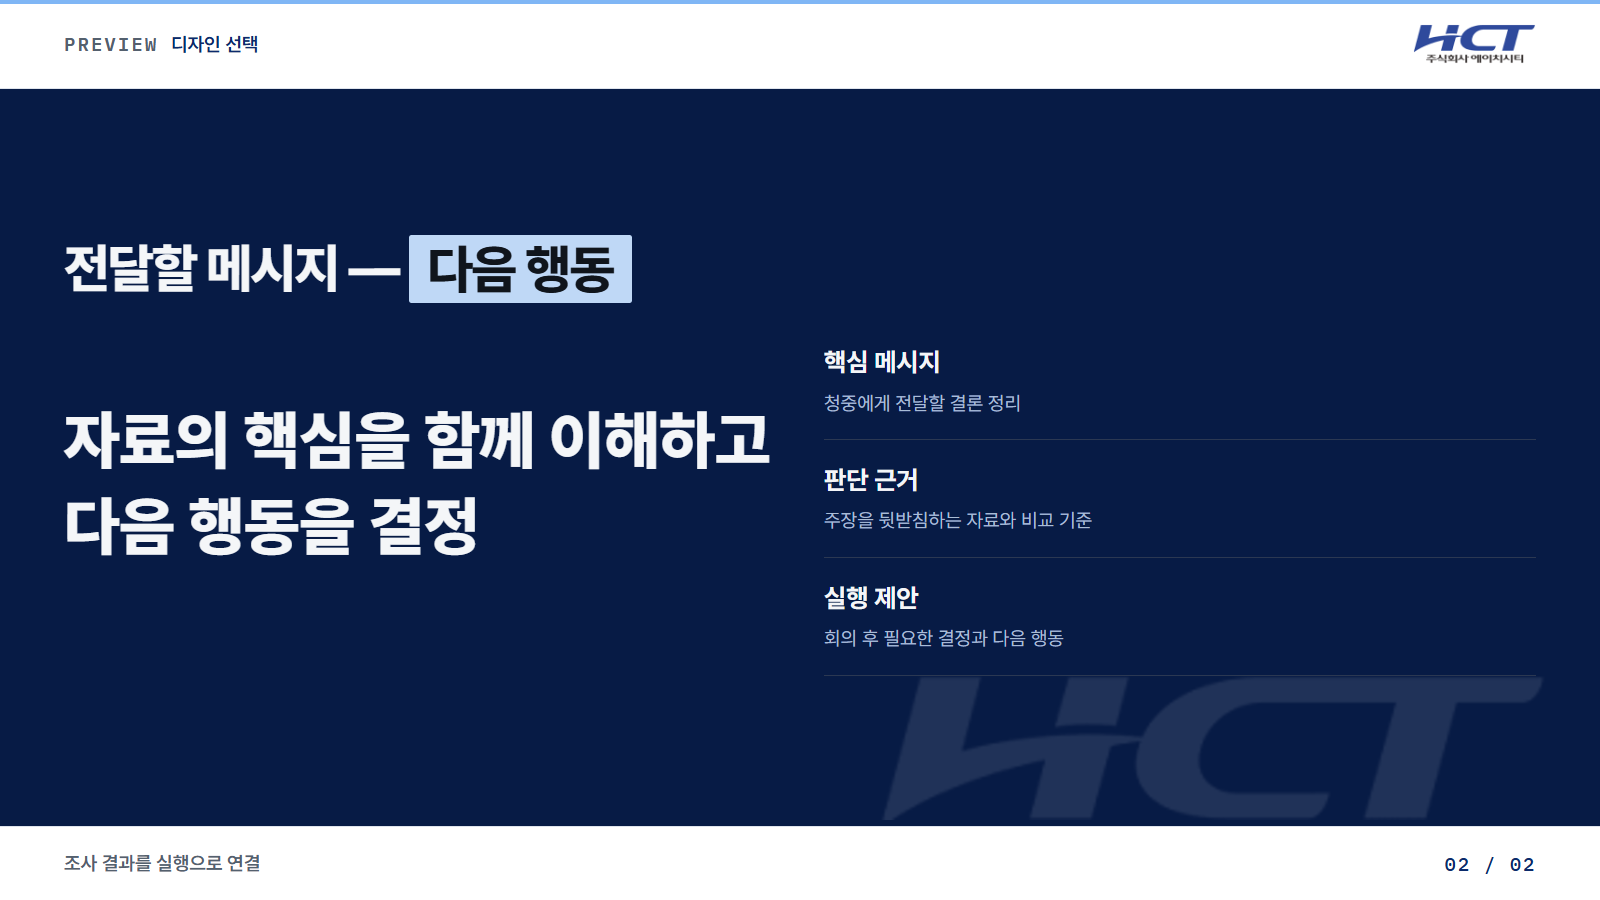
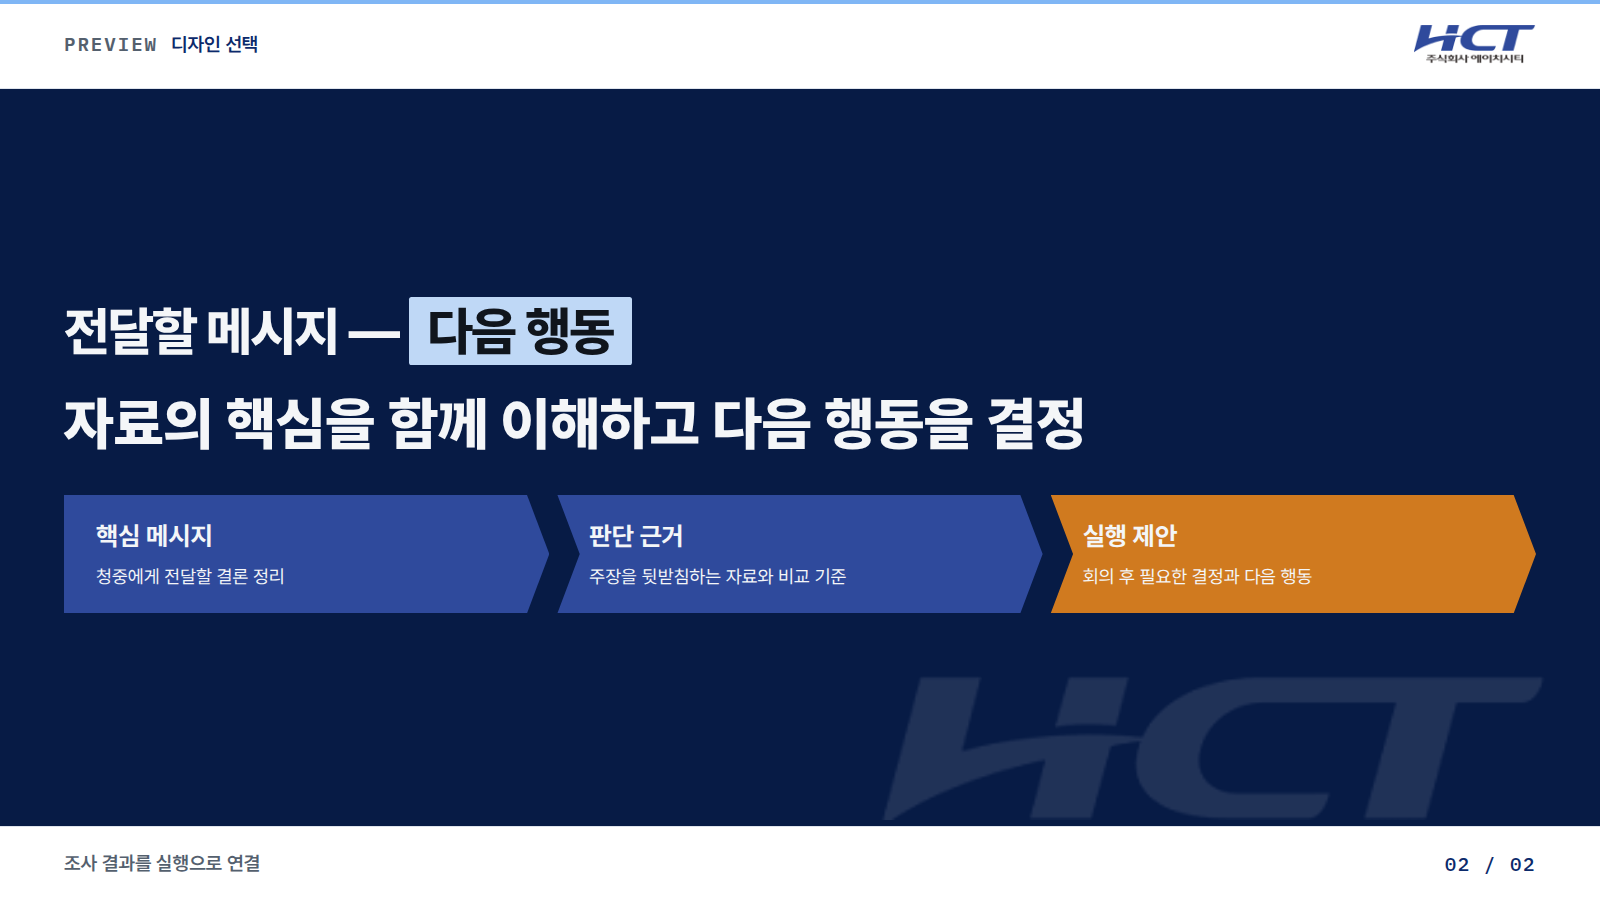
디자인 3안 시안도 디자인 언어로 그린다
- style_previews.py: 세 방향을 디자인 언어 문법 · --bl-pt-* 토큰으로 — 01 보고형 3구역 편집 + 결론 띠,
  02 설명형 노선, 03 메시지형 짙은 띠 + 쉐브론. blue-pattern.css 를 실제 덱처럼 부른다
- 이름 · 번호 · 입력 형식 · 선택 기록은 그대로. 세 시안 모두 check_live 실패 0(글자 하한 · 맞춤 CSS 포함)
- docs/previews PNG 와 STYLE_PREVIEWS.md · visual-style-selection.md 설명 갱신

Claude-Session: https://claude.ai/code/session_018hh15vmx9WVfDNter44QMS

diff --git a/.claude/skills/blue-report/scripts/style_previews.py b/.claude/skills/blue-report/scripts/style_previews.py
@@ -19,9 +19,9 @@ ROOT = Path(__file__).resolve().parent.parent
 ASSETS = ROOT / "assets"
 sys.path.insert(0, str(ROOT / "scripts"))
 STYLES = (
-    ("report", "01", "정돈된 보고형", "회의 보고 · 비교와 판단 근거", "밝은 지면 · 결론과 근거의 좌우 배치"),
-    ("explain", "02", "도식 중심 설명형", "교육 · 절차와 개념 설명", "큰 글씨 · 단계별 흐름 · 넉넉한 여백"),
-    ("proposal", "03", "메시지 강조형", "제안 · 핵심 메시지 전달", "네이비 지면 · 큰 메시지 · 선명한 위계"),
+    ("report", "01", "정돈된 보고형", "회의 보고 · 비교와 판단 근거", "밝은 지면 · 3구역 편집(번호 머리 · 구역별 근거) · 결론 띠"),
+    ("explain", "02", "도식 중심 설명형", "교육 · 절차와 개념 설명", "노선 — 번호 역을 잇는 흐름 · 결과 역 강조 · 넉넉한 여백"),
+    ("proposal", "03", "메시지 강조형", "제안 · 핵심 메시지 전달", "짙은 띠 지면 · 큰 메시지 · 쉐브론 단계 · 다음 행동 강조"),
 )
 EXAMPLE = {
     "title": "조사 결과를 실행으로 연결",
@@ -35,29 +35,50 @@ EXAMPLE = {
 }
 
 # Scoped to preview content. The house chrome and tokens remain untouched.
+# 세 방향 모두 회사 발표 덱의 디자인 언어(references/design-language.md)로 그린다 —
+# 색은 --bl-pt-* 토큰, 01 = 3구역 편집 + 결론 띠, 02 = 노선, 03 = 짙은 띠 + 쉐브론.
 CSS = """
-.x-preview-k { color: var(--br-cobalt); font-size: 1.1rem; font-weight: 700; margin: 0; }
-.x-preview-cover { display: grid; grid-template-columns: 1.25fr .75fr; align-items: center; gap: 4rem; }
-.x-preview-title { font-size: 4.6rem; line-height: 1.2; font-weight: 850; margin: 1.2rem 0; }
-.x-preview-message { font-size: 1.8rem; line-height: 1.6; margin: 0; }
-.x-preview-side { display: grid; gap: 1rem; }
-.x-preview-point { padding: 1.4rem 1.6rem; background: var(--br-card); border-radius: var(--bl-r-m); box-shadow: var(--bl-shadow); }
-.x-preview-point b { color: var(--br-cobalt); font-size: 1.6rem; }
-.x-preview-point p { font-size: 1.2rem; line-height: 1.6; margin: .6rem 0 0; }
-.x-preview-grid { display: grid; grid-template-columns: 1fr 1fr 1fr; gap: 1.4rem; }
-.x-preview-report { display: grid; grid-template-columns: 1fr 1fr; gap: 3rem; align-items: center; }
-.x-preview-key { font-size: 3rem; line-height: 1.4; font-weight: 800; margin: 0; }
-.x-preview-number { font-family: var(--bl-font-mono); color: var(--br-cobalt); font-size: 2rem; margin-bottom: 1rem; }
-.x-preview-stage { padding: 2rem; border-top: .25rem solid var(--br-cobalt); background: var(--br-card); border-radius: var(--bl-r-m); box-shadow: var(--bl-shadow); }
-.x-preview-stage h3 { font-size: 1.8rem; margin: 0 0 1rem; }
-.x-preview-stage p { font-size: 1.25rem; line-height: 1.7; margin: 0; }
-.x-preview-track { height: .2rem; margin: 1rem 0 2rem; background: var(--br-cobalt); }
-.x-preview-statement { font-size: 4rem; line-height: 1.35; font-weight: 850; margin: 0 0 2rem; }
-.x-preview-dark-text { color: var(--br-on-dark-2); }
-.x-preview-dark-key { color: var(--br-accent-on-dark); }
-.x-preview-dark-item { padding: 1.3rem 0; border-bottom: 1px solid var(--br-dark-line); }
-.x-preview-dark-item b { color: var(--br-on-dark); font-size: 1.6rem; }
-.x-preview-dark-item p { color: var(--br-on-dark-2); font-size: 1.2rem; margin: .5rem 0 0; }
+.x-pv-k { color: var(--bl-pt-brand); font-size: 1.1rem; font-weight: 700; margin: 0; }
+.x-pv-title { font-size: 4.4rem; line-height: 1.2; font-weight: 850; margin: 1rem 0; color: var(--bl-pt-ink); letter-spacing: -.02em; }
+.x-pv-title em { font-style: normal; box-shadow: inset 0 -.38em 0 var(--bl-pt-hi); }
+.x-pv-msg { font-size: 1.7rem; line-height: 1.6; margin: 0; color: var(--bl-pt-ink-3); }
+.x-pv-cover { display: grid; grid-template-columns: 1.2fr .8fr; align-items: center; gap: 4rem; }
+.x-pv-no { display: inline-grid; place-items: center; min-width: 2.4rem; padding: .1rem .45rem; border-radius: var(--bl-r-xs);
+  background: var(--bl-pt-brand-2); color: var(--bl-pt-paper); font: 700 1.1rem/1.4 var(--bl-font-mono); }
+.x-pv-list { display: grid; gap: 0; border-top: .2rem solid var(--bl-pt-ink); }
+.x-pv-li { display: grid; grid-template-columns: auto 1fr; gap: .4rem 1rem; align-items: center; padding: 1.1rem 0; border-bottom: 1px solid var(--bl-pt-line); }
+.x-pv-li b { font-size: 1.5rem; color: var(--bl-pt-ink); }
+.x-pv-li p { grid-column: 2; margin: 0; font-size: 1.15rem; color: var(--bl-pt-ink-3); }
+.x-pv-zones { display: grid; grid-template-columns: repeat(var(--n, 3), 1fr); border-top: .2rem solid var(--bl-pt-ink); }
+.x-pv-zone { display: grid; gap: 1rem; align-content: start; padding: 1.6rem 2rem 1.6rem 0; }
+.x-pv-zone + .x-pv-zone { padding-left: 2rem; border-left: 1px solid var(--bl-pt-line); }
+.x-pv-zone h3 { display: flex; align-items: center; gap: .7rem; margin: 0; font-size: 1.8rem; color: var(--bl-pt-ink); }
+.x-pv-zone p { margin: 0; font-size: 1.3rem; line-height: 1.6; color: var(--bl-pt-ink-3); }
+.x-pv-band { margin-top: 2.2rem; padding: 1.2rem 2rem; border-radius: var(--bl-r-s); background: var(--bl-pt-tint);
+  color: var(--bl-pt-brand-2); font-size: 1.6rem; font-weight: 800; text-align: center; }
+.x-pv-band b { color: var(--bl-pt-orange-d); }
+.x-pv-route { position: relative; display: grid; grid-template-columns: repeat(var(--n, 3), 1fr); margin-top: 2rem; }
+.x-pv-route::before { content: ""; position: absolute; left: 0; right: 0; top: 1.6rem; height: .35rem; border-radius: var(--bl-r-pill); background: var(--bl-pt-brand-2); }
+.x-pv-st { position: relative; display: grid; justify-items: center; gap: .8rem; text-align: center; padding: 0 1.2rem; }
+.x-pv-dot { display: grid; place-items: center; width: 3.6rem; height: 3.6rem; border-radius: 50%; background: var(--bl-pt-paper);
+  border: .35rem solid var(--bl-pt-brand-2); color: var(--bl-pt-brand-2); font: 800 1.3rem/1 var(--bl-font-mono); }
+.x-pv-st:last-child .x-pv-dot { background: var(--bl-pt-orange); border-color: var(--bl-pt-orange); color: var(--bl-pt-paper); }
+.x-pv-st b { font-size: 1.7rem; color: var(--bl-pt-ink); }
+.x-pv-st:last-child b { color: var(--bl-pt-orange-d); }
+.x-pv-st p { margin: 0; font-size: 1.25rem; line-height: 1.6; color: var(--bl-pt-ink-3); }
+.x-pv-dark .x-pv-title { color: var(--br-on-dark); }
+.x-pv-dark .x-pv-title em { box-shadow: none; color: var(--bl-pt-orange); }
+.x-pv-dark .x-pv-msg { color: var(--br-on-dark-2); }
+.x-pv-dark .x-pv-k { color: var(--br-accent-on-dark); }
+.x-pv-chev { display: grid; grid-template-columns: repeat(var(--n, 3), 1fr); gap: .5rem; margin-top: 2rem; }
+.x-pv-ch { padding: 1.4rem 2.6rem 1.4rem 2rem; background: var(--bl-pt-brand); color: var(--br-on-dark);
+  clip-path: polygon(0 0, calc(100% - 1.4rem) 0, 100% 50%, calc(100% - 1.4rem) 100%, 0 100%, 1.4rem 50%); }
+.x-pv-ch:first-child { clip-path: polygon(0 0, calc(100% - 1.4rem) 0, 100% 50%, calc(100% - 1.4rem) 100%, 0 100%); }
+.x-pv-ch:last-child { background: var(--bl-pt-orange); }
+.x-pv-ch b { display: block; font-size: 1.6rem; }
+.x-pv-ch p { margin: .5rem 0 0; font-size: 1.15rem; line-height: 1.5; color: var(--br-on-dark); }
+.x-pv-statement { font-size: 3.6rem; line-height: 1.35; font-weight: 850; margin: 0; color: var(--br-on-dark); }
+.x-pv-statement em { font-style: normal; color: var(--bl-pt-orange); }
 """
 
 
@@ -107,21 +128,35 @@ def make_html(data, style):
     escape = html.escape
     title, message = escape(data["title"]), escape(data["message"])
     points = [(escape(p["label"]), escape(p["detail"])) for p in data["points"]]
+    n = len(points)
     label = "스타일 비교용 예시 · 실제 업무 수치 미사용" if data.get("example") else "제공 자료를 활용한 디자인 비교"
-    rows = "".join(f'<div class="x-preview-point"><b>{a}</b><p>{b}</p></div>' for a, b in points)
-    cover = f'<div class="x-preview-cover"><div><p class="x-preview-k">{label}</p><h1 class="x-preview-title">{title}</h1><p class="x-preview-message">{message}</p></div><div class="x-preview-side">{rows}</div></div>'
+    heads = "".join(f'<div class="x-pv-li"><span class="x-pv-no">{i:02}</span><b>{a}</b><p>{b}</p></div>'
+                    for i, (a, b) in enumerate(points, 1))
     if style == "report":
-        body = f'<h2 class="bl-title">조사 내용 — <em>결론과 근거</em></h2><div class="x-preview-report"><p class="x-preview-key">{message}</p><div class="x-preview-side">{rows}</div></div>'
+        # 3구역 편집 + 결론 띠 — 굵은 윗선 · 번호 머리 · 구역별 근거
+        cover = (f'<div class="x-pv-cover"><div><p class="x-pv-k">{label}</p><h1 class="x-pv-title">{title}</h1>'
+                 f'<p class="x-pv-msg">{message}</p></div><div class="x-pv-list">{heads}</div></div>')
+        zones = "".join(f'<div class="x-pv-zone"><h3><span class="x-pv-no">{i:02}</span>{a}</h3><p>{b}</p></div>'
+                        for i, (a, b) in enumerate(points, 1))
+        body = (f'<h2 class="bl-title">조사 내용 — <em>결론과 근거</em></h2><p class="bl-lede">{label}</p>'
+                f'<div class="x-pv-zones" style="--n: {n}">{zones}</div><p class="x-pv-band">결론 → <b>{message}</b></p>')
         slides = section("preview-cover", cover) + section("preview-body", body)
     elif style == "explain":
-        stages = "".join(f'<div class="x-preview-stage"><div class="x-preview-number">{i:02}</div><h3>{a}</h3><p>{b}</p></div>' for i, (a, b) in enumerate(points, 1))
-        cover = f'<p class="x-preview-k">{label}</p><h1 class="x-preview-title">{title}</h1><p class="x-preview-message">{message}</p><div class="x-preview-track"></div><div class="x-preview-grid">{stages}</div>'
-        body = f'<h2 class="bl-title">함께 이해할 내용 — <em>핵심 흐름</em></h2><p class="bl-lede">{message}</p><div class="x-preview-track"></div><div class="x-preview-grid">{stages}</div>'
+        # 노선 — 번호 역을 잇는 굵은 선 · 마지막 역(결과)만 주황
+        stations = "".join(f'<div class="x-pv-st"><span class="x-pv-dot">{i:02}</span><b>{a}</b><p>{b}</p></div>'
+                           for i, (a, b) in enumerate(points, 1))
+        cover = (f'<p class="x-pv-k">{label}</p><h1 class="x-pv-title">{title}</h1><p class="x-pv-msg">{message}</p>'
+                 f'<div class="x-pv-route" style="--n: {n}">{stations}</div>')
+        body = (f'<h2 class="bl-title">함께 이해할 내용 — <em>핵심 흐름</em></h2><p class="bl-lede">{message}</p>'
+                f'<div class="x-pv-route" style="--n: {n}">{stations}</div>')
         slides = section("preview-cover", cover) + section("preview-body", body)
     else:
-        dark_rows = "".join(f'<div class="x-preview-dark-item"><b>{a}</b><p>{b}</p></div>' for a, b in points)
-        cover = f'<div class="x-preview-cover"><div><p class="x-preview-k x-preview-dark-key">{label}</p><h1 class="x-preview-title">{title}</h1><p class="x-preview-message x-preview-dark-text">{message}</p></div><div>{dark_rows}</div></div>'
-        body = f'<h2 class="bl-title">전달할 메시지 — <em>다음 행동</em></h2><div class="x-preview-report"><p class="x-preview-statement">{message}</p><div>{dark_rows}</div></div>'
+        # 짙은 띠 + 쉐브론 — 큰 메시지 · 마지막 단(다음 행동)만 주황
+        chev = "".join(f'<div class="x-pv-ch"><b>{a}</b><p>{b}</p></div>' for a, b in points)
+        cover = (f'<div class="x-pv-dark"><p class="x-pv-k">{label}</p><h1 class="x-pv-title">{title}</h1>'
+                 f'<p class="x-pv-msg">{message}</p><div class="x-pv-chev" style="--n: {n}">{chev}</div></div>')
+        body = (f'<h2 class="bl-title">전달할 메시지 — <em>다음 행동</em></h2><div class="x-pv-dark">'
+                f'<p class="x-pv-statement">{message}</p><div class="x-pv-chev" style="--n: {n}">{chev}</div></div>')
         slides = section("preview-cover", cover, True) + section("preview-body", body, True)
     template = (ASSETS / "live-standard.html").read_text(encoding="utf-8")
     main = f'<main class="bl-deck" id="deck" data-deck-title="{title}" tabindex="0" aria-label="디자인 비교">{slides}</main>'
@@ -131,6 +166,9 @@ def make_html(data, style):
     # The source deck's sample evidence is unrelated to this preview.
     result = re.sub(r'<script type="application/json" id="bl-evidence">.*?</script>', '', result, flags=re.S)
     result = re.sub(r'<title>.*?</title>', lambda _: f'<title>{title} · 디자인 비교</title>', result, count=1, flags=re.S)
+    # 디자인 언어 토큰(--bl-pt-*)은 blue-pattern.css 에 있다 — 실제 덱과 같은 파일을 부른다.
+    if 'blue-pattern.css' not in result:
+        result = result.replace('</head>', '<link rel="stylesheet" href="blue-pattern.css">\n</head>', 1)
     return result.replace('</head>', '<style data-own>\n' + CSS + '\n</style>\n</head>', 1)
 
 

diff --git a/docs/STYLE_PREVIEWS.md b/docs/STYLE_PREVIEWS.md
@@ -9,9 +9,9 @@
 
 | 번호 | 방향 | 원본 이미지 |
 |---|---|---|
-| 01 | 정돈된 보고형: 밝은 지면, 결론과 근거의 좌우 배치 | [표지](previews/report-cover.png) · [본문](previews/report-body.png) |
-| 02 | 도식 중심 설명형: 큰 글씨, 단계 흐름, 여백 | [표지](previews/explain-cover.png) · [본문](previews/explain-body.png) |
-| 03 | 메시지 강조형: 네이비 지면, 큰 메시지, 강한 위계 | [표지](previews/proposal-cover.png) · [본문](previews/proposal-body.png) |
+| 01 | 정돈된 보고형: 밝은 지면, 3구역 편집과 결론 띠 | [표지](previews/report-cover.png) · [본문](previews/report-body.png) |
+| 02 | 도식 중심 설명형: 노선 — 번호 역 흐름, 결과 역 강조 | [표지](previews/explain-cover.png) · [본문](previews/explain-body.png) |
+| 03 | 메시지 강조형: 짙은 띠 지면, 큰 메시지, 쉐브론 단계 | [표지](previews/proposal-cover.png) · [본문](previews/proposal-body.png) |
 
 회사 로고·폰트·팔레트·머리말·꼬리말은 공통이다. 번호로 고르거나 원하는 조합·수정 방향을 설명한다.
 스킬은 선택 결과를 제작 방향에 반영한 다음 전체 자료를 만든다. 선택을 위임할 수도 있다.
@@ -35,7 +35,7 @@ python .claude/skills/blue-report/scripts/style_previews.py --content brief.json
 ```
 
 예시 내용으로 기능을 확인하려면 --content를 생략한다. 기존 선택 자료를 보존하므로 재생성할 때는 새 출력 폴더를 사용한다.
-이 생성기는 전체 스타일 비교용이다. 생성 파일은 후보별 표지·본문 PNG 6개, comparison.png, index.html, 개별 HTML, styles.json이다. 페이지별 3안은 에이전트가 각 장의 실제 내용에 맞춰 별도로 제작한다.
+세 방향은 회사 발표 덱의 디자인 언어(`.claude/skills/blue-report/references/design-language.md`)의 배치 문법과 색 토큰으로 그린다. 이 생성기는 전체 스타일 비교용이다. 생성 파일은 후보별 표지·본문 PNG 6개, comparison.png, index.html, 개별 HTML, styles.json이다. 페이지별 3안은 에이전트가 각 장의 실제 내용에 맞춰 별도로 제작한다.
 파일을 실제로 열고 글자·로고·배치를 확인한 뒤 사용자에게 비교 이미지를 보여준다.
 
 ## 효과와 출력 형식

diff --git a/.claude/skills/blue-report/references/visual-style-selection.md b/.claude/skills/blue-report/references/visual-style-selection.md
@@ -30,11 +30,11 @@
 
 | 후보 | 표현 | 어울리는 상황 |
 |---|---|---|
-| 01 정돈된 보고형, report | 밝은 지면, 결론과 근거의 좌우 배치 | 회의 보고, 비교, 의사결정 |
-| 02 도식 중심 설명형, explain | 큰 글씨, 단계 흐름, 넉넉한 여백 | 교육, 절차, 개념 설명 |
-| 03 메시지 강조형, proposal | 네이비 지면, 큰 메시지, 강한 위계 | 제안, 핵심 메시지 전달 |
+| 01 정돈된 보고형, report | 밝은 지면, 3구역 편집(번호 머리 · 구역별 근거)과 결론 띠 | 회의 보고, 비교, 의사결정 |
+| 02 도식 중심 설명형, explain | 노선 — 번호 역을 잇는 흐름, 결과 역 강조, 넉넉한 여백 | 교육, 절차, 개념 설명 |
+| 03 메시지 강조형, proposal | 짙은 띠 지면, 큰 메시지, 쉐브론 단계와 다음 행동 강조 | 제안, 핵심 메시지 전달 |
 
-세 방향은 회사 로고·색·서체·머리말·꼬리말·워터마크를 유지하는 본문 구성의 차이다.
+세 방향은 회사 로고·색·서체·머리말·꼬리말·워터마크를 유지하는 본문 구성의 차이다. 세 방향 모두 회사 발표 덱의 디자인 언어(design-language.md)의 배치 문법으로 그린다 — 고른 방향은 본 제작에서 같은 문법을 내용에 맞게 응용하면 시안과 완성본이 이어진다.
 사용자가 제공한 별도 참조나 요구가 있으면 그 내용에 맞춰 후보를 조정한다.
 
 ## 2. 실제 PNG 생성

diff --git a/CHANGELOG.md b/CHANGELOG.md
@@ -24,7 +24,7 @@ claude plugin marketplace update blue-tools   # 최신판 받기
 고쳐 쓰거나 문법을 빌려 새로 짠다(응용 견본 `pt-applied`). 덱 머리에 `assets/blue-pattern.css` 를 부른다. 효과 라이브러리 `MOTION.md` 를 더했고, `DESIGN.md` 「3」 이
 내용별로 먼저 볼 패턴첩 장을 가리킨다. 엔진은 패턴 장 단계와 지난 단계 흐리게(`data-dim`)를 지원하고,
 `check_live.py` 는 패턴 장의 작은 글자를 주의로, `blue-pattern.css` 누락을 실패로 잡는다.
-페이지별 3안 시안은 패턴첩 장에서 배치 후보를 고를 수 있다. 기획 · 시안 선택 · Codex 설치 흐름은 그대로다.
+디자인 3안 시안 생성기(`style_previews.py`)도 같은 디자인 언어로 그린다 — 01 보고형은 3구역 편집 + 결론 띠, 02 설명형은 노선, 03 메시지형은 짙은 띠 + 쉐브론. 시안에서 고른 모습이 본 제작으로 이어진다. 기획 · 시안 선택 · Codex 설치 흐름은 그대로다.
 
 ## 1.11.0 — 2026-10-21
 
